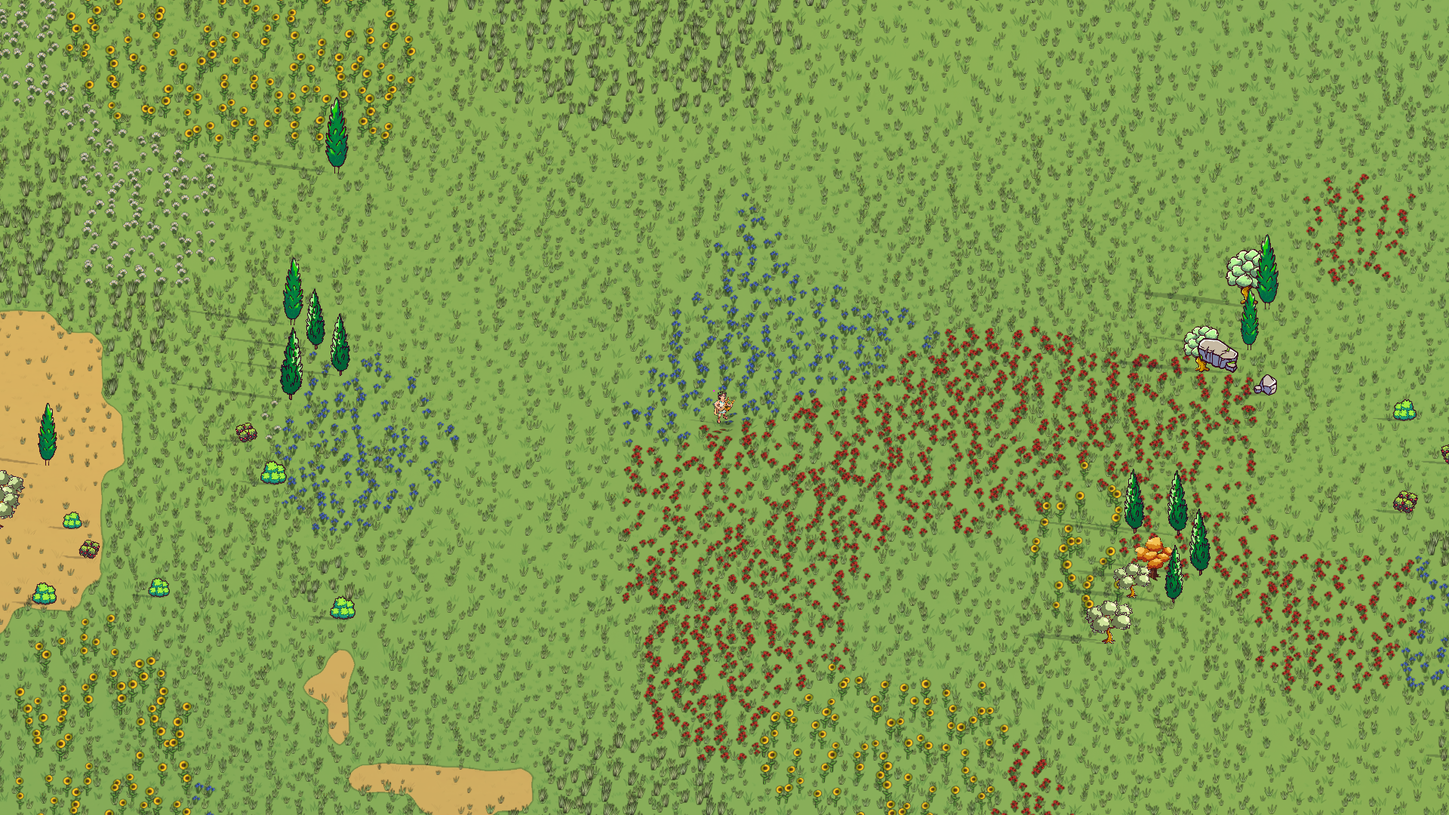
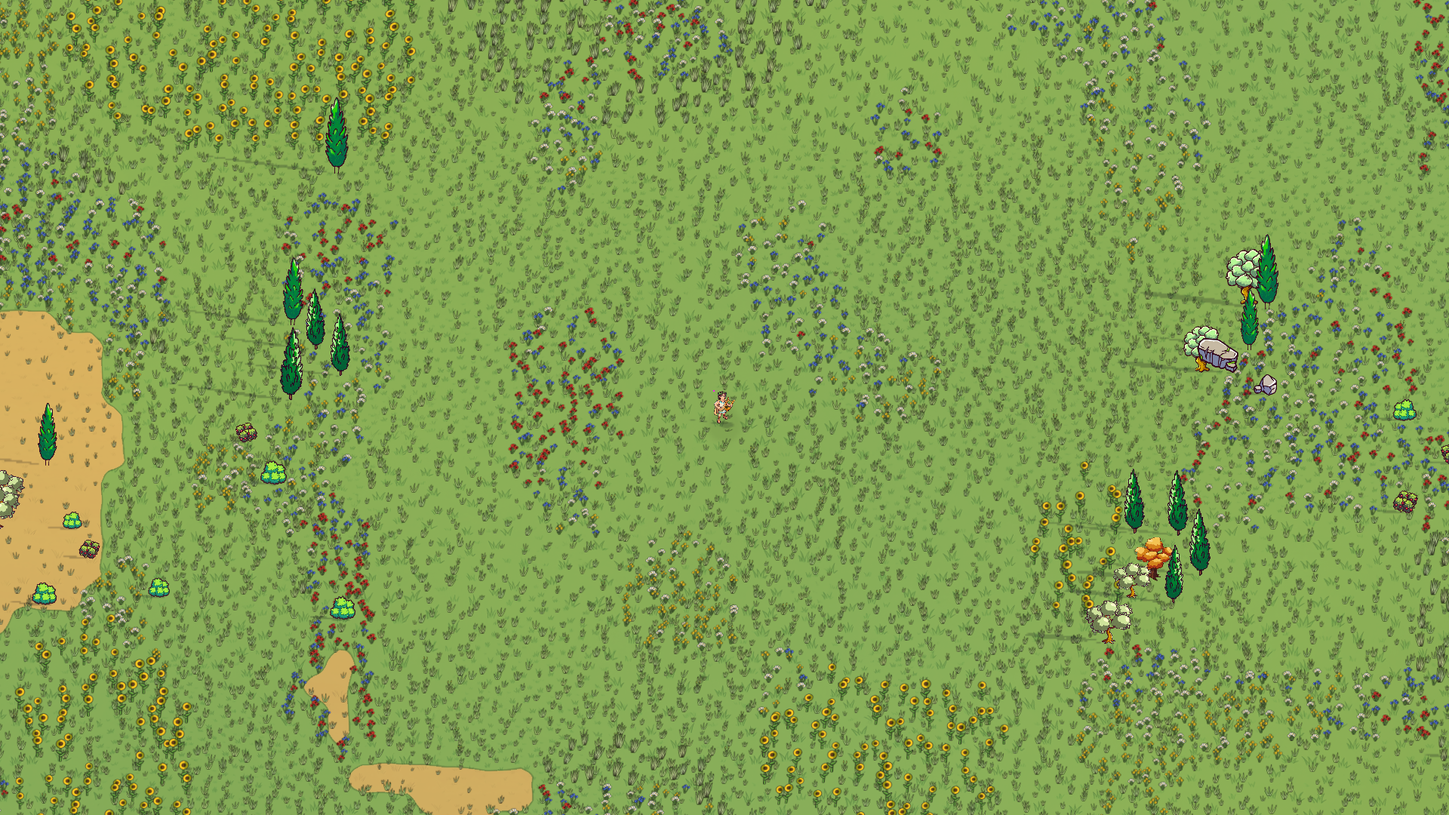
C-027 (П): стрела и удар над глубиной, бор выше по рельефу, пол бора зеленее, цветы вперемешку, замер силуэта
- Simulation.StrikeTileBlocked: глубокая вода без объекта — не преграда удара и стрелы (ходить нельзя по-прежнему).
- Тесты: стрела над глубиной (BowTests), удар через глубину (SwordTests), бор выше дубравы (C027WorldTests); мутации красные.
- Бор — травяной пол темнее луга, хвоя пятнами пучков; цветы — мелкие смешанные пятна.
- Замер: силуэт +0,15 мс на кадр (обзор 64); снимок ночью; снимки до/после; ответ в карточке.

diff --git a/client/Assets/Scripts/GrassLayer.cs b/client/Assets/Scripts/GrassLayer.cs
@@ -64,7 +64,7 @@ namespace Orpheus.Client
             new TuftRule { Ground = GroundTable.DryGrass, Min = 1, Max = 2, Chance = 0.7f, Clump = 0.5f, Shape = 0, Shapes = 4, SizeMin = 0.25f, SizeMax = 0.5f, Tint = new Color32(228, 198, 98, 255) },
             new TuftRule { Ground = GroundTable.Forest, Min = 1, Max = 1, Chance = 0.22f, Shape = ShapeFern, SizeMin = 0.4f, SizeMax = 0.62f, Tint = new Color32(112, 152, 66, 255) },
             // C-027: бор — редкая сухая трава по хвое; ельник — густой тёмный папоротник.
-            new TuftRule { Ground = GroundTable.Pine, Min = 1, Max = 2, Chance = 0.3f, Clump = 0.6f, Shape = 0, Shapes = 4, SizeMin = 0.25f, SizeMax = 0.45f, Tint = new Color32(200, 184, 104, 255) },
+            new TuftRule { Ground = GroundTable.Pine, Min = 1, Max = 3, Chance = 0.7f, Clump = 0.8f, Shape = 0, Shapes = 4, SizeMin = 0.28f, SizeMax = 0.5f, Tint = new Color32(150, 186, 84, 255) },
             new TuftRule { Ground = GroundTable.Spruce, Min = 1, Max = 2, Chance = 0.5f, Clump = 0.8f, Shape = ShapeFern, SizeMin = 0.45f, SizeMax = 0.75f, Tint = new Color32(78, 128, 74, 255) },
         };
 
@@ -96,7 +96,7 @@ namespace Orpheus.Client
             // Луг: подсолнухи, поляны цветов (цвет пятна — свой шум), высокая трава.
             new MicroRule { Ground = GroundTable.Grass, Scale = 11f, Noise = 401, From = 0.74f,
                 Rule = new TuftRule { Min = 1, Max = 2, Chance = 0.75f, Shape = ShapeSunflower, SizeMin = 0.8f, SizeMax = 1.05f, Tone = 0.05f } },
-            new MicroRule { Ground = GroundTable.Grass, Scale = 9f, Noise = 409, From = 0.6f, Rule = Flowers(ShapePoppy, new Color32(255, 255, 255, 255)) },
+            new MicroRule { Ground = GroundTable.Grass, Scale = 5f, Noise = 409, From = 0.66f, Rule = Flowers(ShapePoppy, new Color32(255, 255, 255, 255)) },
             new MicroRule { Ground = GroundTable.Grass, Scale = 13f, Noise = 419, From = 0.68f,
                 Rule = new TuftRule { Min = 1, Max = 2, Shape = ShapeTall, SizeMin = 0.6f, SizeMax = 0.85f, Tint = new Color32(184, 214, 104, 255) } },
             new MicroRule { Ground = GroundTable.DryGrass, Scale = 11f, Noise = 401, From = 0.7f,
@@ -106,6 +106,9 @@ namespace Orpheus.Client
             new MicroRule { Ground = GroundTable.Forest, Scale = 8f, Noise = 431, From = 0.68f, Rule = Flowers(ShapeDaisy, new Color32(255, 255, 255, 255)) },
             new MicroRule { Ground = GroundTable.Forest, Scale = 10f, Noise = 433, From = 0.6f,
                 Rule = new TuftRule { Min = 1, Max = 2, Shape = ShapeFern, SizeMin = 0.5f, SizeMax = 0.75f, Tint = new Color32(104, 150, 64, 255) } },
+            // Бор: хвоя и сухая трава мелкими пятнами (~4 тайла) по травяному полу.
+            new MicroRule { Ground = GroundTable.Pine, Scale = 4f, Noise = 451, From = 0.6f,
+                Rule = new TuftRule { Min = 2, Max = 3, Shape = 0, Shapes = 4, SizeMin = 0.25f, SizeMax = 0.42f, Tint = new Color32(204, 162, 92, 255) } },
             // Ельник: заросли папоротника.
             new MicroRule { Ground = GroundTable.Spruce, Scale = 9f, Noise = 437, From = 0.58f,
                 Rule = new TuftRule { Min = 2, Max = 3, Shape = ShapeFern, SizeMin = 0.6f, SizeMax = 0.9f, Tint = new Color32(70, 120, 70, 255) } },
@@ -113,6 +116,9 @@ namespace Orpheus.Client
 
         /// <summary>Цвета полян цветов на лугу — по второму шуму: маки, васильки, ромашки, лютики.</summary>
         static readonly int[] MeadowFlowers = { ShapePoppy, ShapeCornflower, ShapeDaisy, ShapeButtercup };
+
+        /// <summary>Знак «цветы вперемешку» вместо формы: вид пучка — шум цвета (~8 тайлов) плюс разброс по хэшу пучка.</summary>
+        const int MixedFlowers = -2;
 
         /// <summary>Камыш в отмели у берега (C-027): пятнами, на воде, соседней с сушей.</summary>
         public static readonly TuftRule WaterReed = new TuftRule
@@ -133,7 +139,7 @@ namespace Orpheus.Client
 
                 if (m.Rule.Shape == ShapePoppy && layer == GroundTable.Grass)
                 {
-                    shape = MeadowFlowers[Mathf.Min(3, (int)(ObjectTable.Smooth(tx / 23f, ty / 23f, 443) * 4f))];
+                    shape = MixedFlowers; // C-027 (П): вид — на каждый пучок, пятна мелкие и смешанные (Tile)
                 }
 
                 return m.Rule;
@@ -374,6 +380,11 @@ namespace Orpheus.Client
                 float fx = 0.08f + 0.84f * GroundAtlas.Hash(tx, ty, 317 + s);
                 float fy = (k + 0.1f + 0.8f * GroundAtlas.Hash(tx, ty, 331 + s)) * slot; // от верхнего края тайла вниз
                 int shape = shapeOverride >= 0 ? shapeOverride : rule.Shape + (int)(GroundAtlas.Hash(tx, ty, 337 + s) * rule.Shapes);
+                if (shapeOverride == MixedFlowers)
+                {
+                    float c = ObjectTable.Smooth(tx / 8f, ty / 8f, 443) * 4f + (GroundAtlas.Hash(tx, ty, 371 + s) - 0.5f) * 2.2f;
+                    shape = MeadowFlowers[Mathf.Clamp((int)c, 0, 3)];
+                }
                 if (rule.Shapes > 1 && GroundAtlas.Hash(tx, ty, 359 + s) < 0.06f)
                 {
                     shape = ShapeSeed; // изредка — метёлка

diff --git a/src/Orpheus.Core/Sim/Simulation.Combat.cs b/src/Orpheus.Core/Sim/Simulation.Combat.cs
@@ -391,24 +391,21 @@ namespace Orpheus.Core.Sim
         }
 
         /// <summary>
-        /// Тайл прерывает линию удара (`02` 3.4): как <see cref="IsBlocked"/> для ходьбы, но
-        /// деревянный забор — преграда для ходьбы, для удара нет (забор бьётся, приёмка 1-004).
+        /// Тайл прерывает линию удара (`02` 3.4): как <see cref="IsBlocked"/> для ходьбы, но деревянный забор — преграда для
+        /// ходьбы, для удара нет (забор бьётся, приёмка 1-004); глубокая вода без объекта — тоже (C-027: только не ходят, `02` 4.2).
         /// </summary>
         private bool StrikeTileBlocked(TileCoord tile)
         {
-            if (IsBlocked(_shape, tile))
+            if (!IsBlocked(_shape, tile))
             {
-                Chunk? chunk = _world.FindChunk(Torus.ChunkOf(_shape, tile));
-                if (chunk != null &&
-                    ObjectId.IdOf(chunk.GetObject(Chunk.IndexOf(tile.X, tile.Y))) == ObjectId.WoodFence)
-                {
-                    return false; // забор — линия удара проходит (`02` 3.1:157)
-                }
-
-                return true;
+                return false;
             }
 
-            return false;
+            Chunk? chunk = _world.FindChunk(Torus.ChunkOf(_shape, tile));
+            int index = Chunk.IndexOf(tile.X, tile.Y);
+            ushort obj = chunk == null ? ObjectId.Empty : chunk.GetObject(index);
+            return chunk == null || (ObjectId.IdOf(obj) != ObjectId.WoodFence // забор — линия удара проходит (`02` 3.1:157)
+                && !(obj == ObjectId.Empty && chunk.GetFloor(index) == FloorId.DeepWater && BuildLayers.OverhangAt(_world, tile, solidOnly: true) == 0));
         }
 
         /// <summary>Точка <paramref name="p"/> лежит в твёрдой ячейке 0,5 × 0,5 тайла <paramref name="tile"/> (E2-12, <see cref="SolidCells"/>).</summary>

diff --git a/tests/Orpheus.Tests/C027WorldTests.cs b/tests/Orpheus.Tests/C027WorldTests.cs
@@ -174,7 +174,7 @@ namespace Orpheus.Tests
 
         /// <summary>
         /// 30 зёрен: в лесу три вида пола (дубрава, бор, ельник), каждый ≥ 12 % подстилки леса; кластерами (≥ 95 % тайлов
-        /// подстилки с 4 соседями той же подстилки или не-подстилкой); ельник гуще бора.
+        /// подстилки с 4 соседями той же подстилки или не-подстилкой); ельник гуще бора; бор выше дубравы по рельефу.
         /// </summary>
         [Fact]
         public void C027_30Seeds_ForestKinds_Clustered_OwnDensity()
@@ -183,6 +183,7 @@ namespace Orpheus.Tests
             {
                 var floors = new long[3];
                 var trees = new long[3];
+                var height = new long[3];
                 long same = 0, total = 0;
                 for (int y = 0; y < W; y++)
                 {
@@ -197,6 +198,7 @@ namespace Orpheus.Tests
 
                         floors[k]++;
                         trees[k] += t.Objects[i] == ObjectId.Tree ? 1 : 0;
+                        height[k] += t.Relief.HeightAt(x, y);
                         total++;
                         bool ok = true;
                         for (int d = 0; d < 4; d++)
@@ -220,6 +222,10 @@ namespace Orpheus.Tests
 
                 Assert.True(same * 100 >= total * 95, line);
                 Assert.True(trees[2] * floors[1] > trees[1] * floors[2], line); // ельник гуще бора
+
+                // Бор — выше по рельефу: средняя высота его подстилки выше, чем у дубравы, на ≥ 5 % шкалы (зона по высоте).
+                long hOak = height[0] / floors[0], hPine = height[1] / floors[1];
+                Assert.True(hPine - hOak >= Orpheus.WorldGen.LatticeNoise.One / 20, line + $"; высота дубравы {hOak}, бора {hPine}");
             }
         }
 

diff --git a/client/Assets/Scripts/GroundTable.cs b/client/Assets/Scripts/GroundTable.cs
@@ -78,7 +78,7 @@ namespace Orpheus.Client
         public const byte Grass = 5;
         public const byte Forest = 6;
 
-        /// <summary>C-027: сосновый бор (рыжая хвоя) и тёмный ельник (мох) — та же картинка подстилки, свой тон.</summary>
+        /// <summary>C-027: сосновый бор (травяной пол темнее луга, хвоя — мелкими пятнами пучков) и тёмный ельник (мох — картинка подстилки, свой тон).</summary>
         public const byte Pine = 7;
         public const byte Spruce = 8;
         public const byte Rocky = 9;
@@ -96,7 +96,7 @@ namespace Orpheus.Client
             new GroundLayer("ground_drygrass", new Color32(200, 172, 80, 255), new Color(0.93f, 0.86f, 0.78f), 0.70f, 1f, 0.6f),
             new GroundLayer("ground_grass", new Color32(112, 170, 44, 255), new Color(0.86f, 0.86f, 0.80f), 0.68f, 1f, 0.5f),
             new GroundLayer("ground_forest", new Color32(84, 92, 44, 255), Color.white, 1f, 0.5f),
-            new GroundLayer("ground_forest", new Color32(128, 96, 52, 255), new Color(1.04f, 0.94f, 0.80f), 0.70f, 0.5f, 0.8f),
+            new GroundLayer("ground_grass", new Color32(96, 120, 52, 255), new Color(0.80f, 0.78f, 0.60f), 0.62f, 1f, 0.55f), // C-027 (П): бор — травяной пол, темнее и теплее луга (не рыжие поля хвои); хвоя — пучками
             new GroundLayer("ground_forest", new Color32(40, 64, 44, 255), new Color(0.62f, 0.80f, 0.70f), 0.85f, 0.5f, 0.9f),
             new GroundLayer("ground_rocky", new Color32(176, 168, 150, 255)),
         };

diff --git a/tests/Orpheus.Tests/SwordTests.cs b/tests/Orpheus.Tests/SwordTests.cs
@@ -449,6 +449,23 @@ namespace Orpheus.Tests
             Assert.True(hits > 0, "забор между бойцами — удар проходит");
         }
 
+        /// <summary>C-027: глубокая вода между бойцами — не преграда удара (запрещено только ходить, `02` 4.2).</summary>
+        [Fact]
+        public void C027_DeepWater_DoesNotBlockStrike()
+        {
+            var s = new SwordSim(clearLine: false);
+            s.Sim.World.SetBaseTile(new TileCoord(21, 32), FloorId.DeepWater, ObjectId.Empty);
+            Assert.True(s.Sim.IsBlocked(s.Sim.Shape, new TileCoord(21, 32))); // ходить нельзя
+            int hits = 0;
+            for (int t = 1; t <= 40 && hits == 0; t++)
+            {
+                s.Tick(out var now);
+                hits += now.Count;
+            }
+
+            Assert.True(hits > 0, "глубокая вода между бойцами — удар проходит");
+        }
+
         /// <summary>Стена между бойцами глушит удар (docs 02 3.4, приёмка 1-004).</summary>
         [Fact]
         public void D02_S3_4_Wall_BlocksStrikeLine()

diff --git a/client/Assets/Scripts/WorldFx.cs b/client/Assets/Scripts/WorldFx.cs
@@ -283,12 +283,18 @@ namespace Orpheus.Client
             return $"тени огня и существ {(t1 - t0) * f / frames:0.000} мс/кадр, сетка света {(t2 - t1) * f / fills:0.00} мс/пересборка";
         }
 
-        /// <summary>C-017: замер кадра снимка (<c>ORPH_SHOT_BENCH</c>) — камера теней рисуется каждый кадр, как в игре.</summary>
+        /// <summary>C-017: замер кадра снимка (<c>ORPH_SHOT_BENCH</c>) — камера теней (и маски силуэта, C-027) рисуется каждый кадр, как в игре.</summary>
         public static void BenchShadows()
         {
             if (_ready && _shadowCam != null)
             {
                 _shadowCam.Render();
+            }
+
+            if (_ready && _maskCam != null)
+            {
+                TagHero();
+                _maskCam.Render(); // C-027: и камера маски силуэта — её цена входит в кадр
             }
         }
 

diff --git a/tests/Orpheus.Tests/BowTests.cs b/tests/Orpheus.Tests/BowTests.cs
@@ -283,11 +283,12 @@ namespace Orpheus.Tests
             Assert.Equal(35, r.Sim.GetEntity(enemy).Health);
         }
 
-        /// <summary>Забор, открытая дверь, вода, куст — стрела пролетает (`02` 4.2; C-018) и попадает.</summary>
+        /// <summary>Забор, открытая дверь, вода (и глубокая, C-027), куст — стрела пролетает (`02` 4.2; C-018) и попадает.</summary>
         [Theory]
         [InlineData(ObjectId.WoodFence, FloorId.Grass)]
         [InlineData(ObjectId.Door, FloorId.Grass)]
         [InlineData(ObjectId.Empty, FloorId.Water)]
+        [InlineData(ObjectId.Empty, FloorId.DeepWater)] // C-027: глубину не переходят, но стрела над ней летит
         [InlineData(ObjectId.Bush, FloorId.Grass)]
         public void E32_FenceOpenDoorWaterBush_DoNotStop(ushort obj, byte floor)
         {

diff --git a/work/modules/worldview.md b/work/modules/worldview.md
@@ -30,7 +30,7 @@
 | `DryGrass` (12) | 4 `ground_drygrass` | id дал генератор v5 (E1-2) |
 | `Grass` (1), неизвестные | 5 `ground_grass` | |
 | `ForestFloor` (11) | 6 `ground_forest` | дубрава |
-| `PineFloor` (14) | 7 `ground_forest` × тёплый рыжий тон | C-027: сосновый бор |
+| `PineFloor` (14) | 7 `ground_grass` × тёмный тёплый тон | C-027: сосновый бор (хвоя — пятнами пучков) |
 | `SpruceFloor` (15) | 8 `ground_forest` × тёмный холодный тон | C-027: тёмный ельник |
 | `Stone` (3), `Snow` (5) | 9 `ground_rocky` | своей картинки снега нет |
 | `WoodFloor`, `StoneFloor`, `Platform` | плитка Tilemap поверх меша | под ней земля (под настилом — отмель) |
@@ -85,7 +85,8 @@
 ## C-027 (17.11, приёмка 2.8)
 - **Гора сплошная, силуэт поверх** («На фото гора не должна становиться прозрачной»): квадраты горы — `uv1.z = 2` (`ObjectMesh.Cliffs.BlockInfo`), прозрачности в круге у них нет. Спрайты своего персонажа (тело, призраки, предмет в руке) — слой `WorldFx.HeroLayer` = 30; камера `HeroMaskCamera` рисует их в маску (половина разрешения, как тени), шейдер объектов у горы перед персонажем (опора ниже ног) кладёт по маске заливку `SilhouetteFill` и светлый контур `SilhouetteLine` (предварительно). Кроны и стены — прозрачный круг, как раньше. Выключатель `ORPH_FX=nosilhouette`.
 - **Виды леса:** деревья по слою пола — дубрава: дубы (+ осенний), бор: сосны теплее и выше, ельник: тёмные сосны и кипарисы (оттенок строки `ObjectTable`). Своих картинок ели и берёзы нет — заказать на Мак.
-- **Пятна растений (`GrassLayer.Micro`):** вместо троп — по плавному шуму координаты мира: луг — подсолнухи, поляны цветов (маки, васильки, ромашки, лютики — цвет пятна по второму шуму), высокая трава; сухая трава — подсолнухи и лютики; дубрава — ромашки и папоротник; ельник — заросли папоротника; бор — редкая сухая трава. Камыш — и на суше у воды, и пятнами в отмели у берега. Формы 8–13 листа пучков нарисованы кодом (стебли зелёные в листе, цветы своим цветом). В данных мира пятен нет: в сети клиент не знает зерна — шум по координате (как вид дерева).
+- Замер (П): силуэт +0,15 мс на кадр (1,51 против 1,36 мс, обзор 64, 1080p, `C-027_bench_64`). Удар и стрела над глубиной проходят (ядро, `StrikeTileBlocked`).
+- **Пятна растений (`GrassLayer.Micro`):** вместо троп — по плавному шуму координаты мира: луг — подсолнухи, поляны цветов ~5 тайлов (маки, васильки, ромашки, лютики — вид на каждый пучок, вперемешку), высокая трава; сухая трава — подсолнухи и лютики; дубрава — ромашки и папоротник; ельник — заросли папоротника; бор — редкая сухая трава. Камыш — и на суше у воды, и пятнами в отмели у берега. Формы 8–13 листа пучков нарисованы кодом (стебли зелёные в листе, цветы своим цветом). В данных мира пятен нет: в сети клиент не знает зерна — шум по координате (как вид дерева).
 - Медь на мини-карте — ярко-оранжевая; глубина и виды леса — свои цвета (`MiniMap`).
 - Сцены `C-027_*` (`tools/shots.json`), снимки `work/screens/C-027_*`.
 

diff --git a/work/tasks/C-027.md b/work/tasks/C-027.md
@@ -67,3 +67,13 @@
 - Лишняя камера — каждый кадр (`LateFrame` → `Sync` → `TagHero` с `GetComponentsInChildren`); дёшево по пикселям, но в URP у камеры свой проход — замерить кадр с `ORPH_FX=nosilhouette` и без.
 - Вид: бор — большие рыжие поляны хвои (`forest_96`) — читается как та же «коричневая земля», на которую жаловался Автор; притушить тон.
 - Пятна растений — по координате мира, не по зерну: в разных мирах те же места — `[док]` в отчёте есть, согласен с решением.
+
+## Ответ исполнителя на проверку (18.11)
+
+1. **(блок) Стрела и удар над глубиной.** `Simulation.StrikeTileBlocked`: глубокая вода без объекта (и без свеса мебели) — не преграда линии удара и полёта стрелы; ходить по-прежнему нельзя (`IsBlocked`). Лава — как было. Тесты: `BowTests.E32_FenceOpenDoorWaterBush_DoNotStop` + `[InlineData(Empty, DeepWater)]` (стрела над глубиной попадает), `SwordTests.C027_DeepWater_DoesNotBlockStrike` (глубина между бойцами — удар проходит, тайл при этом `IsBlocked`). Мутация (условие глубины выключено) — оба красные.
+2. **Бор выше по рельефу:** в `C027_30Seeds_ForestKinds_Clustered_OwnDensity` — средняя высота подстилки бора выше дубравы на ≥ 1/20 шкалы. Мутация «бор в низинах» — красный (раньше ловил только golden).
+3. **Пол бора** — травяная картинка темнее и теплее луга (`GroundTable` слой 7: `ground_grass` × (0,80; 0,78; 0,60)), рыжих полей хвои нет; хвоя и сухая трава — пятнами пучков ~4 тайла (`GrassLayer.Micro`, бор), трава гуще. Генератор не менялся (только вид) — тяжёлые не повторял. Снимки: `C-027_forest_96_before.png` → `C-027_forest_96.png`.
+4. **Замер кадра** (`ORPH_SHOT_BENCH=300`, сцена `C-027_bench_64` — свой персонаж за горой, обзор 64, 1920 × 1080, по 2 прогона; замер теперь рисует и камеру маски): с силуэтом 1,513 / 1,508 мс (1 % худших 2,12 / 2,23), без (`ORPH_FX=nosilhouette`) 1,363 / 1,367 мс (2,08 / 2,13) — силуэт +0,15 мс на кадр. Ночью силуэт виден, тон суток его притушает, контур читается: `C-027_behind_night.png`.
+5. **Цветы мельче и вперемешку:** пятна цветов на лугу — шум 5 тайлов вместо 9, порог 0,66; вид — на каждый пучок (шум цвета ~8 тайлов + разброс по хэшу), края пятен смешанные. Снимки: `C-027_start_64_before.png` → `C-027_start_64.png`.
+
+Прочее: быстрый CI — ниже; сборка `-Smoke -HostSmoke` — код 0 (первый прогон после правок: host-smoke красный по предсказанию «макс. расхождение 410 unit» — повтор без изменений кода зелёный (0 unit); правки карточки движение не трогают; кандидат в `work/flaky.md`). Замечание П про силуэт чужих игроков — строка в `work/backlog.md`, не делал.

diff --git a/work/backlog.md b/work/backlog.md
@@ -251,3 +251,4 @@
 - [док] (E3-2) `02` 4.1 не говорит, что делает щелчок короче 0,2 с (принято: тетива дотягивается до 0,2 с и стреляет); медный лук — прикидка 6…12 урона, 33 т (окончательно — `06`).
 - [бой] (П E3-2) Линия удара меча `StrikeLineClear` (точки через 64 unit) пропускает удар через стык двух стен углом (как было у стрелы до правки): нужен тот же обход ячеек с проверкой угла (`Simulation.Projectiles.FirstBlockedStep`).
 - [сеть] (П E3-2) «Снаряд» (38) и «урон» (37) — по сообщению на событие и игрока; к шагу 3.3 (враги-стрелки, толпы) — пачка событий такта одним сообщением на игрока.
+- [вид] (П C-027) Силуэт за горой — только у своего персонажа: чужие игроки и враги за горой не видны (как и раньше: круг прозрачности был только свой). Если нужно — маска для всех существ в окне.
